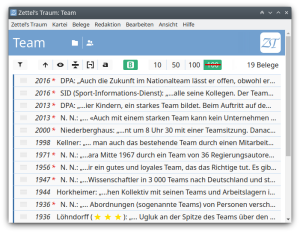
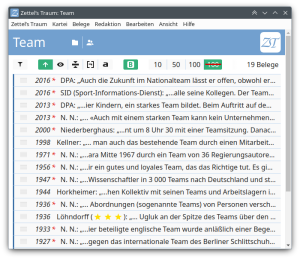
Update Abb. README.md

diff --git a/README.md b/README.md
@@ -21,11 +21,11 @@ Die im Projekt *Wortgeschichte digital* mithilfe von *Zettel’s Traum* verfasst
 
 ## Die App
 
-<a href="img/win/start-karteikarte.png"><img align="right" src="img/readme/screenshot-karteikarte.png" width="300" height="233" alt="Karteikarte"></a>
+<a href="img/win/start-karteikarte.png"><img align="right" src="img/readme/screenshot-karteikarte.png" width="300" height="259" alt="Karteikarte"></a>
 
 *Zettel’s Traum* ist ein Karteikastenprogramm für historisch arbeitende Lexikographen und Lexikographinnen, das für das Wörterbuchprojekt *[Wortgeschichte digital](https://adw-goe.de/forschung/weitere-forschungsprojekte/wortgeschichte-digital-teilprojekt-im-zdl/)* (WGd) geschrieben wurde. Die App entstand aus der Idee heraus, Belegsammlungen auf Karteikarten, wie sie bereits seit den ersten Anfängen des *Deutschen Wörterbuchs von Jacob Grimm und Wilhelm Grimm* im Jahr 1838 in Gebrauch waren, in das digitale Zeitalter zu holen und sie durch eine Vielzahl an Such-, Filter- und Verwaltungsfunktionen zugänglich zu machen. *Zettel’s Traum* soll das Schreiben von Wörterbuchartikeln, bei denen nicht selten mit großen Massen an Textbelegen hantiert wird, komfortabler, das heißt schneller, übersichtlicher, schlicht und ergreifend leichter machen.
 
-<a href="img/win/start-belegliste.png"><img align="left" src="img/readme/screenshot-belegliste.png" width="300" height="233" alt="Belegliste"></a>
+<a href="img/win/start-belegliste.png"><img align="left" src="img/readme/screenshot-belegliste.png" width="300" height="259" alt="Belegliste"></a>
 
 Mit *Zettel’s Traum* können Sie Textbelege zu einem Wort (oder einer Wortverbindung) auf virtuelle Karteikarten schreiben, die in Wortkarteien gesammelt und verwaltet werden. Sie können die Belege und Wortkarteien in vielfältiger Weise taggen, also mit weiteren Informationen anreichern und verknüpfen: mit Internetressourcen, mit lokalen Dateien und nicht zuletzt mit Bedeutungen aus einem oder mehreren zentral verwalteten Bedeutungsgerüsten, in denen sich die einzelnen Positionen nach Belieben umbenennen und verschieben, verschmelzen und erweitern lassen, ohne dass man Dutzende oder gar Hunderte Karteikarten einzeln ändern müsste.
 
